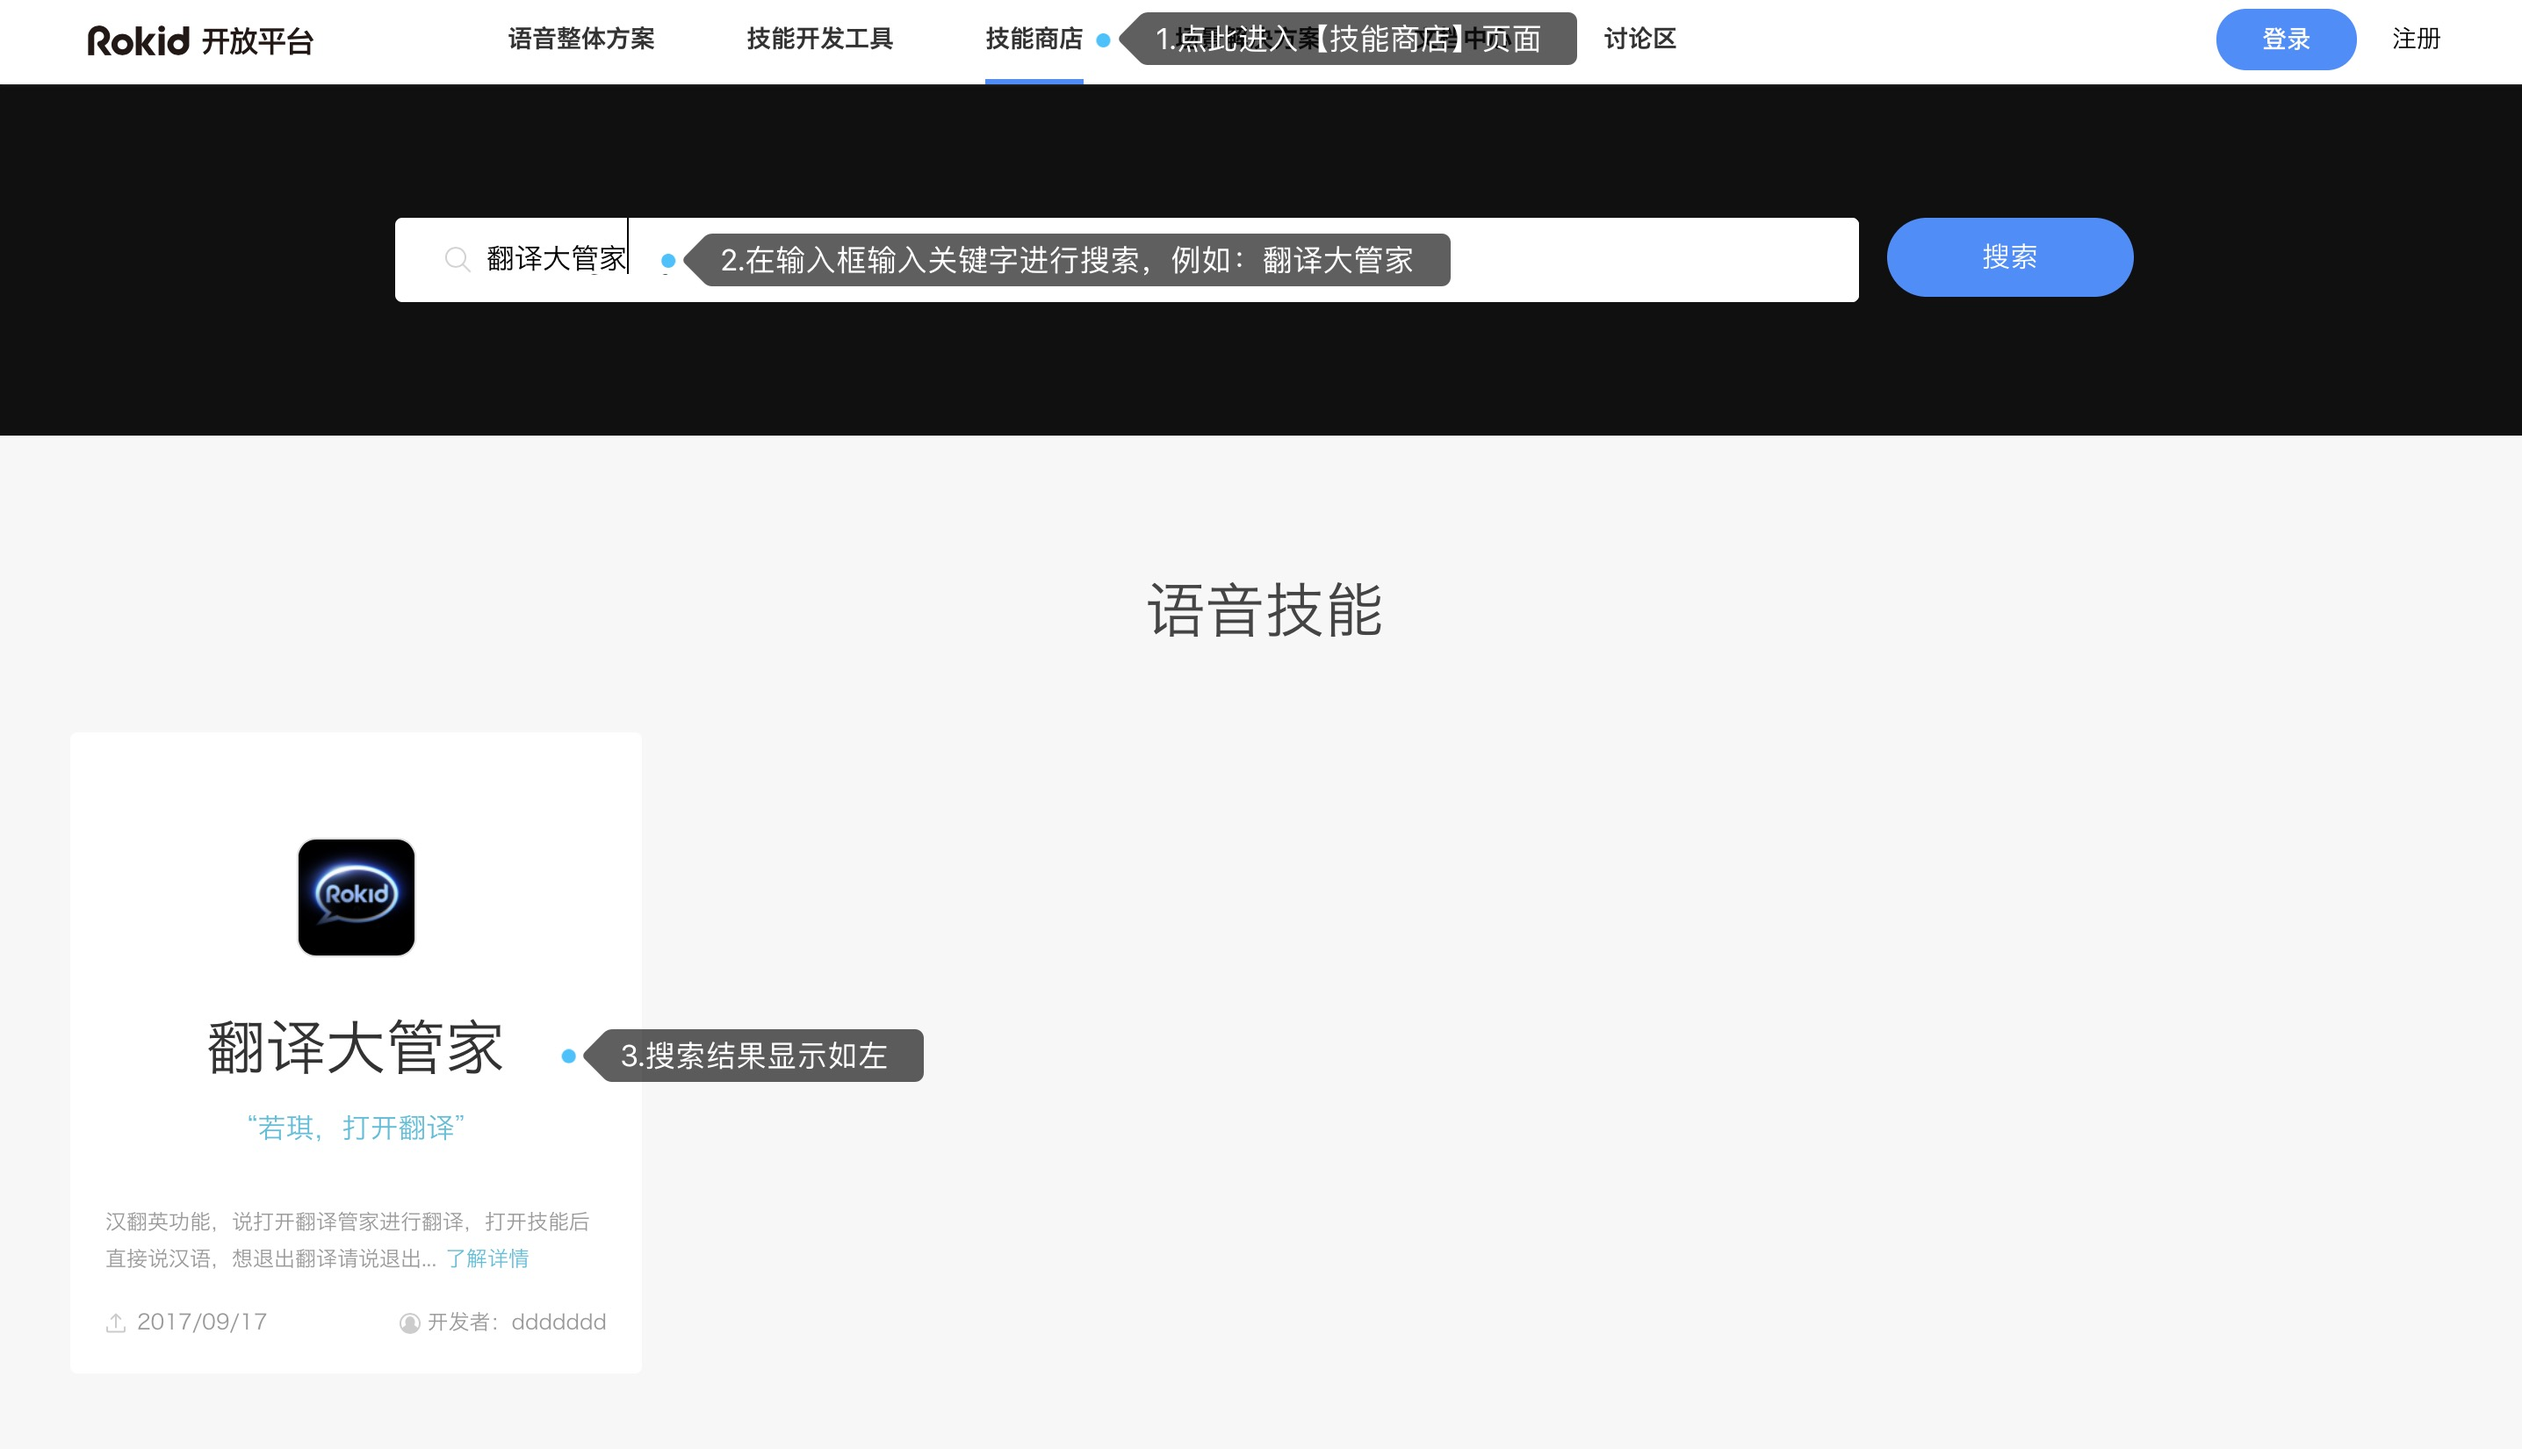
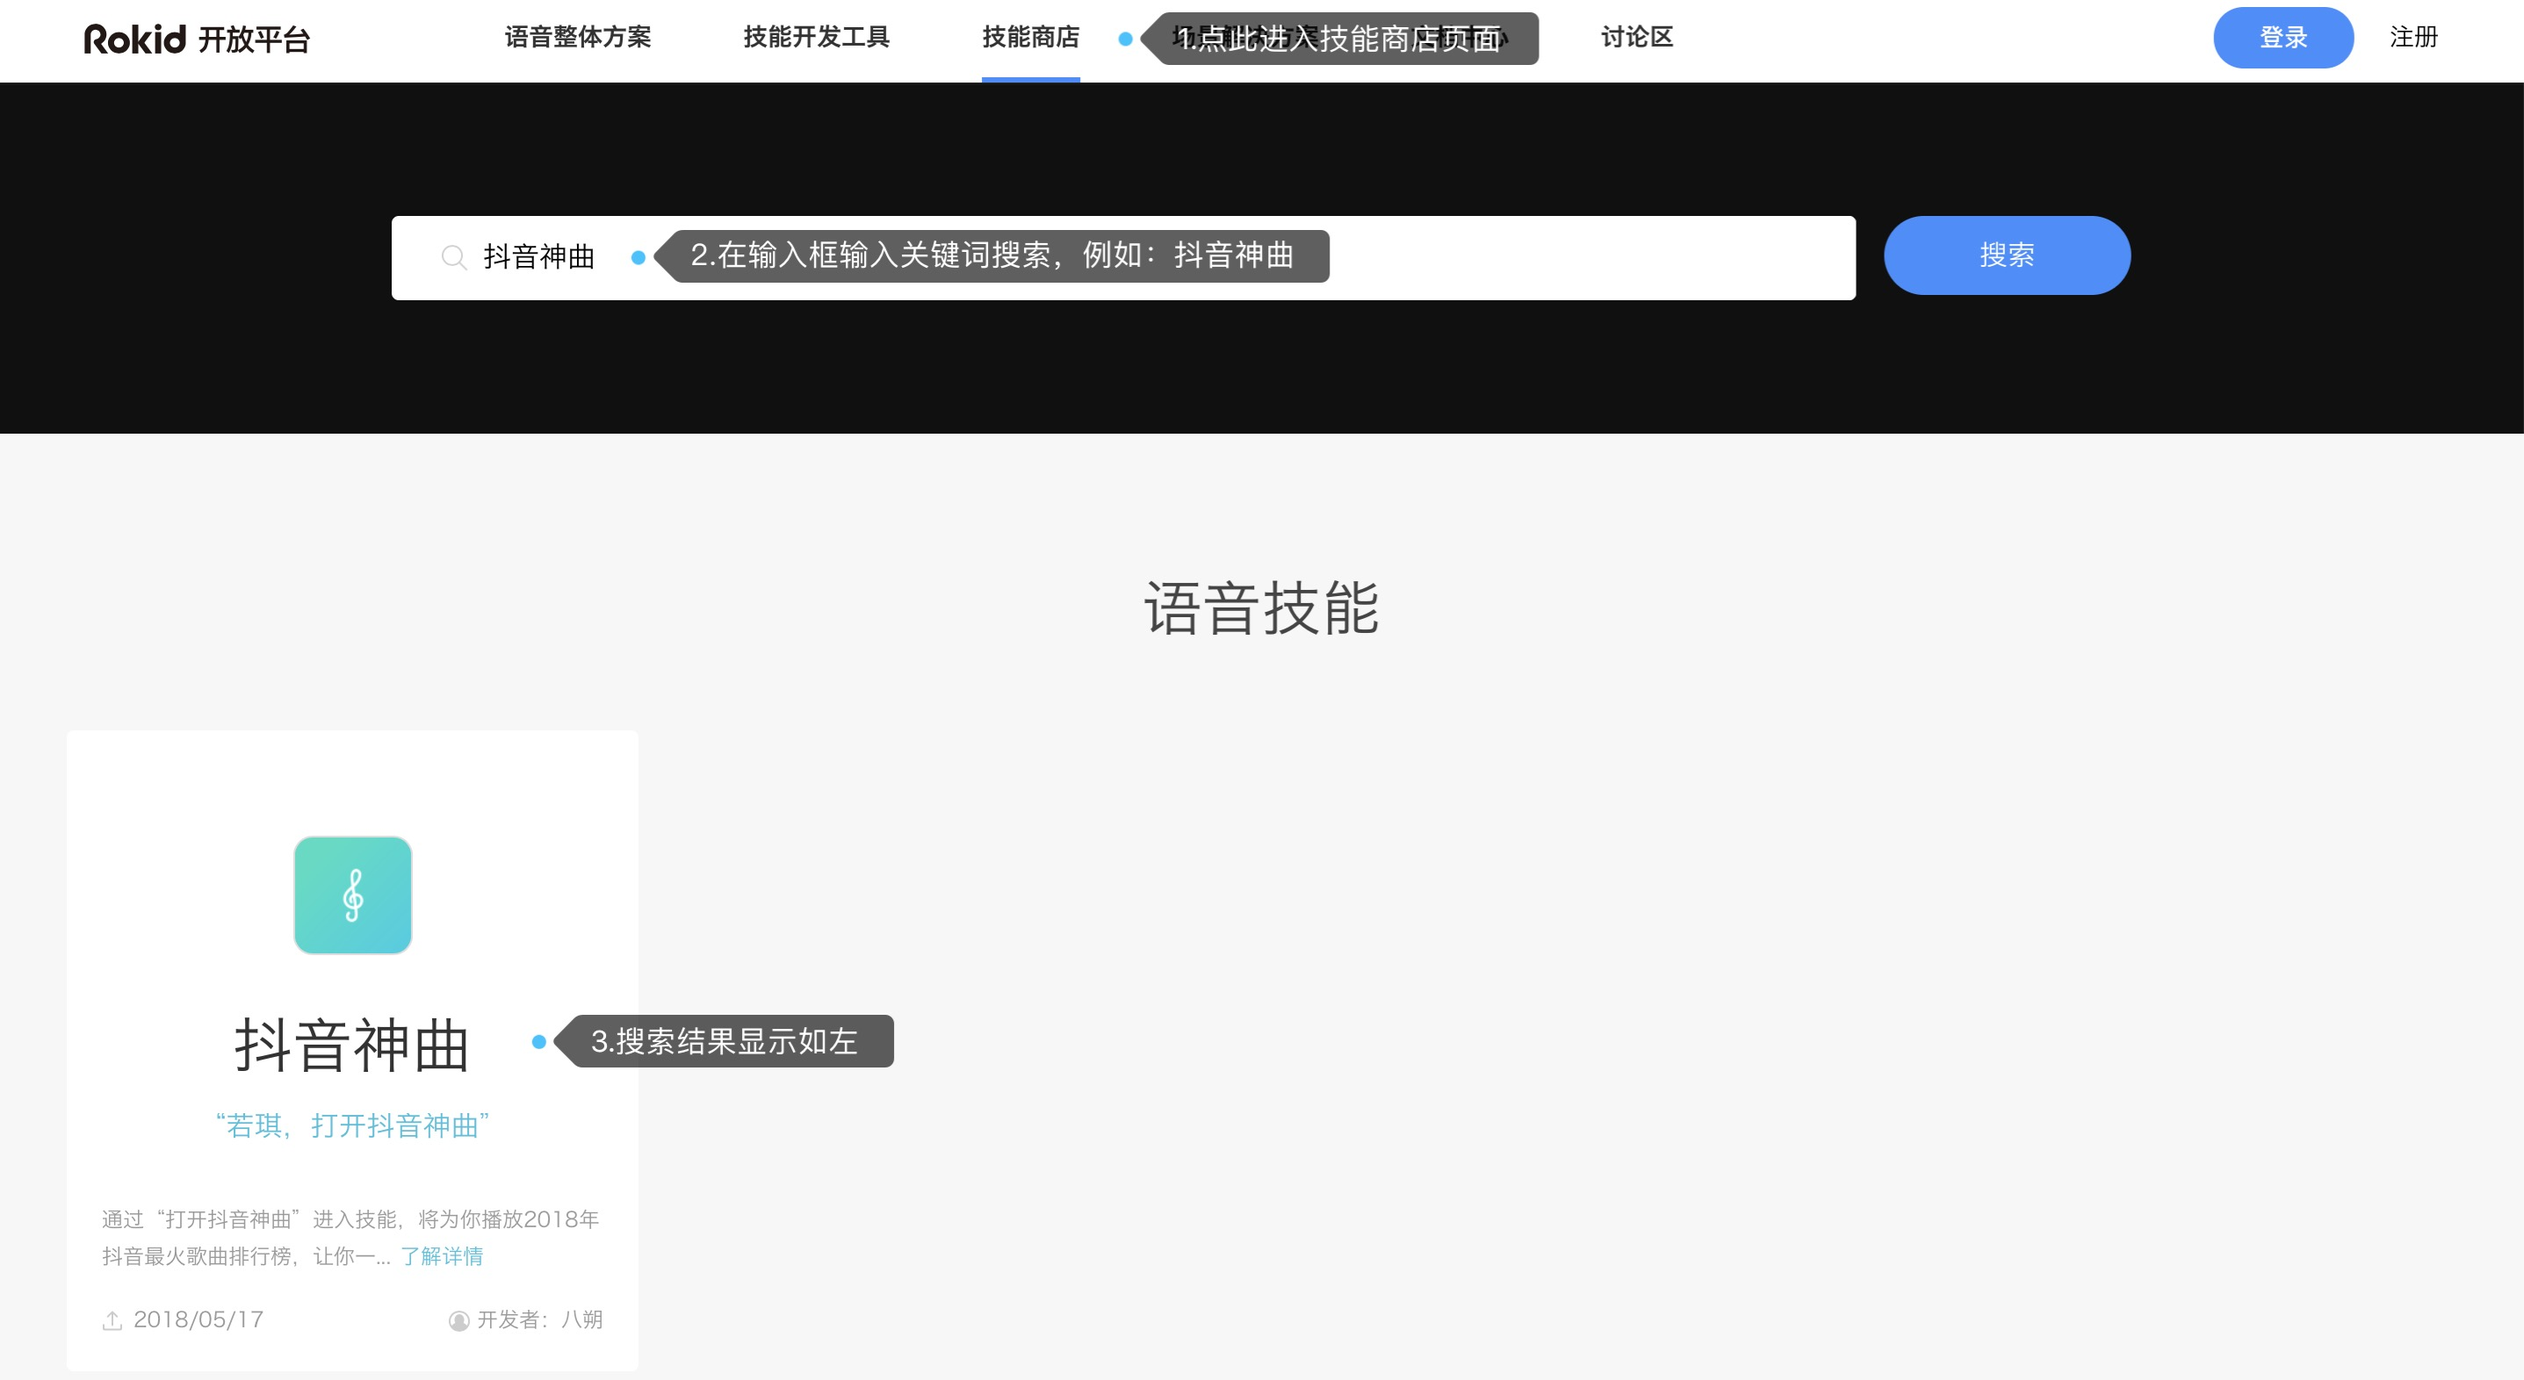
newimages (#360)
修改了截图

diff --git a/2-RokidDocument/2-EnableVoice/rokid-hardware-ux-design-guidelines.md b/2-RokidDocument/2-EnableVoice/rokid-hardware-ux-design-guidelines.md
@@ -6,13 +6,13 @@
     -   [界面](#界面)
     -   [音效](#音效)
 -   [灯光](#灯光)
-    -   [A. 灯光的颜色、含义和用途](#a. 灯光的颜色、含义和用途)
-    -   [B. 灯效](#b. 灯效)
-    -   [C. 光停留长短和闪烁频率](#c. 光停留长短和闪烁频率)
-    -   [D. 光的强弱-亮度值和范围](#d. 光的强弱-亮度值和范围)
+    -   [A. 灯光的颜色、含义和用途](#a-灯光的颜色、含义和用途)
+    -   [B. 灯效](#b-灯效)
+    -   [C. 光停留长短和闪烁频率](#c-光停留长短和闪烁频率)
+    -   [D. 光的强弱-亮度值和范围](#d-光的强弱-亮度值和范围)
 -   [音效](#音效)
-    -   [E. 组成](#e. 组成)
-    -   [F. 作用](#F. 作用)
+    -   [E. 组成](#e-组成)
+    -   [F. 作用](#f-作用)
 
 ### 系统整体
 

diff --git a/2-RokidDocument/1-SkillsKit/getting-started/skill-store.md b/2-RokidDocument/1-SkillsKit/getting-started/skill-store.md
@@ -1,7 +1,7 @@
 ### 技能商店
 
-公有技能「翻译大管家」通过审核后，可在[技能商店](https://skill.rokid.com/store/#/)搜索到，如图：
+公有技能「抖音神曲」通过审核后，可在[技能商店](https://skill.rokid.com/store/#/)搜索到，如图：
 ![](images/07-技能商店展示技能.png)
 
-单击「翻译大管家」，可看到技能详情，如下图：
+单击「抖音神曲」，可看到技能详情，如下图：
 ![](images/07-技能详情展示.png)
